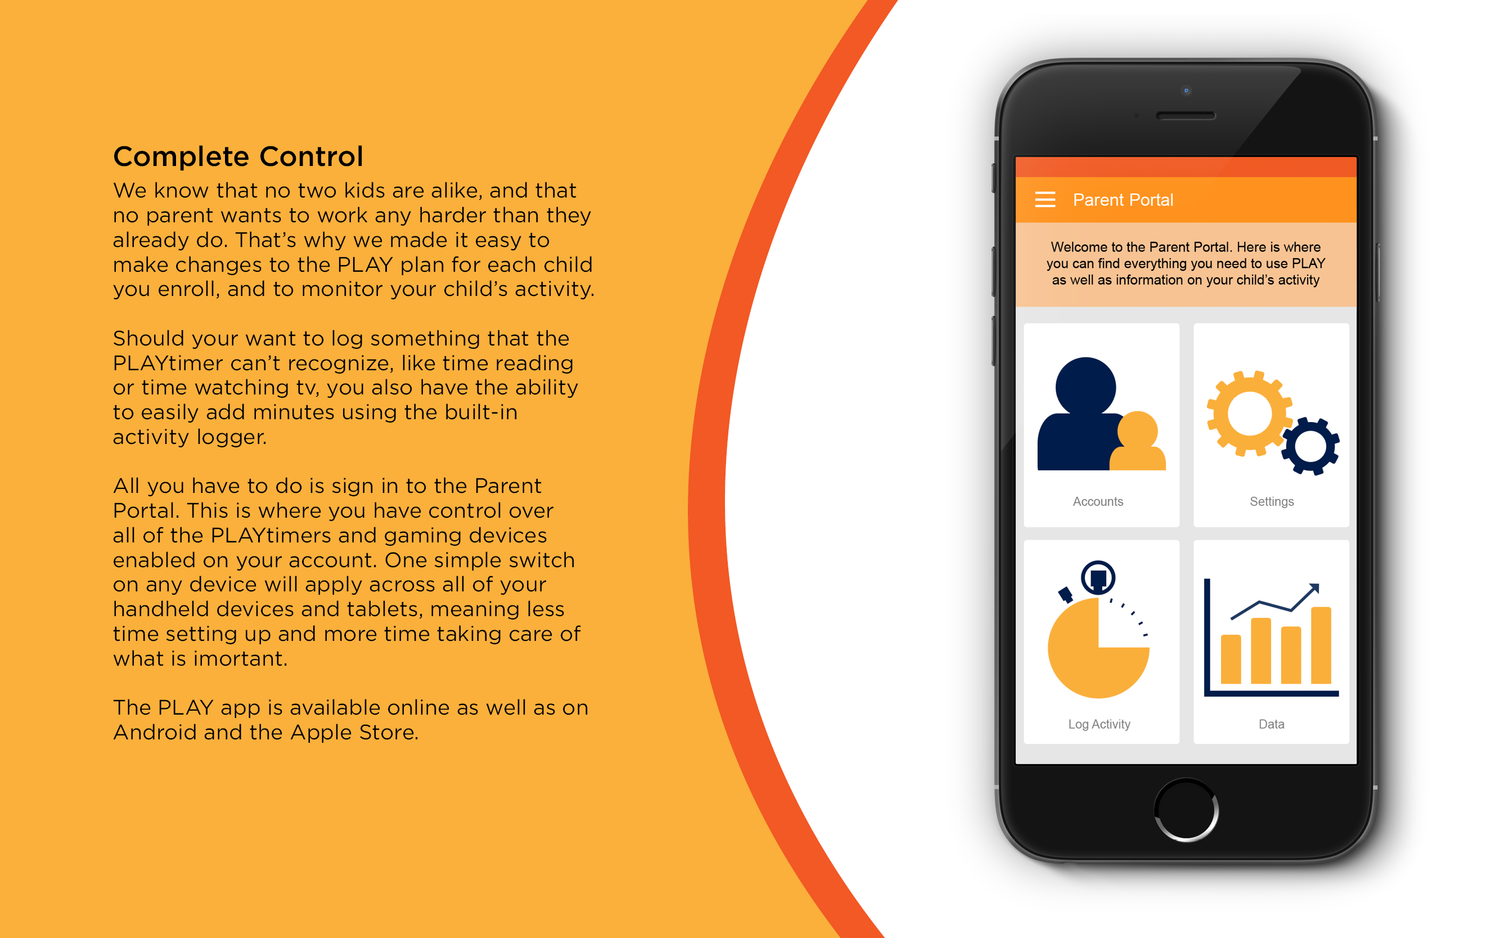
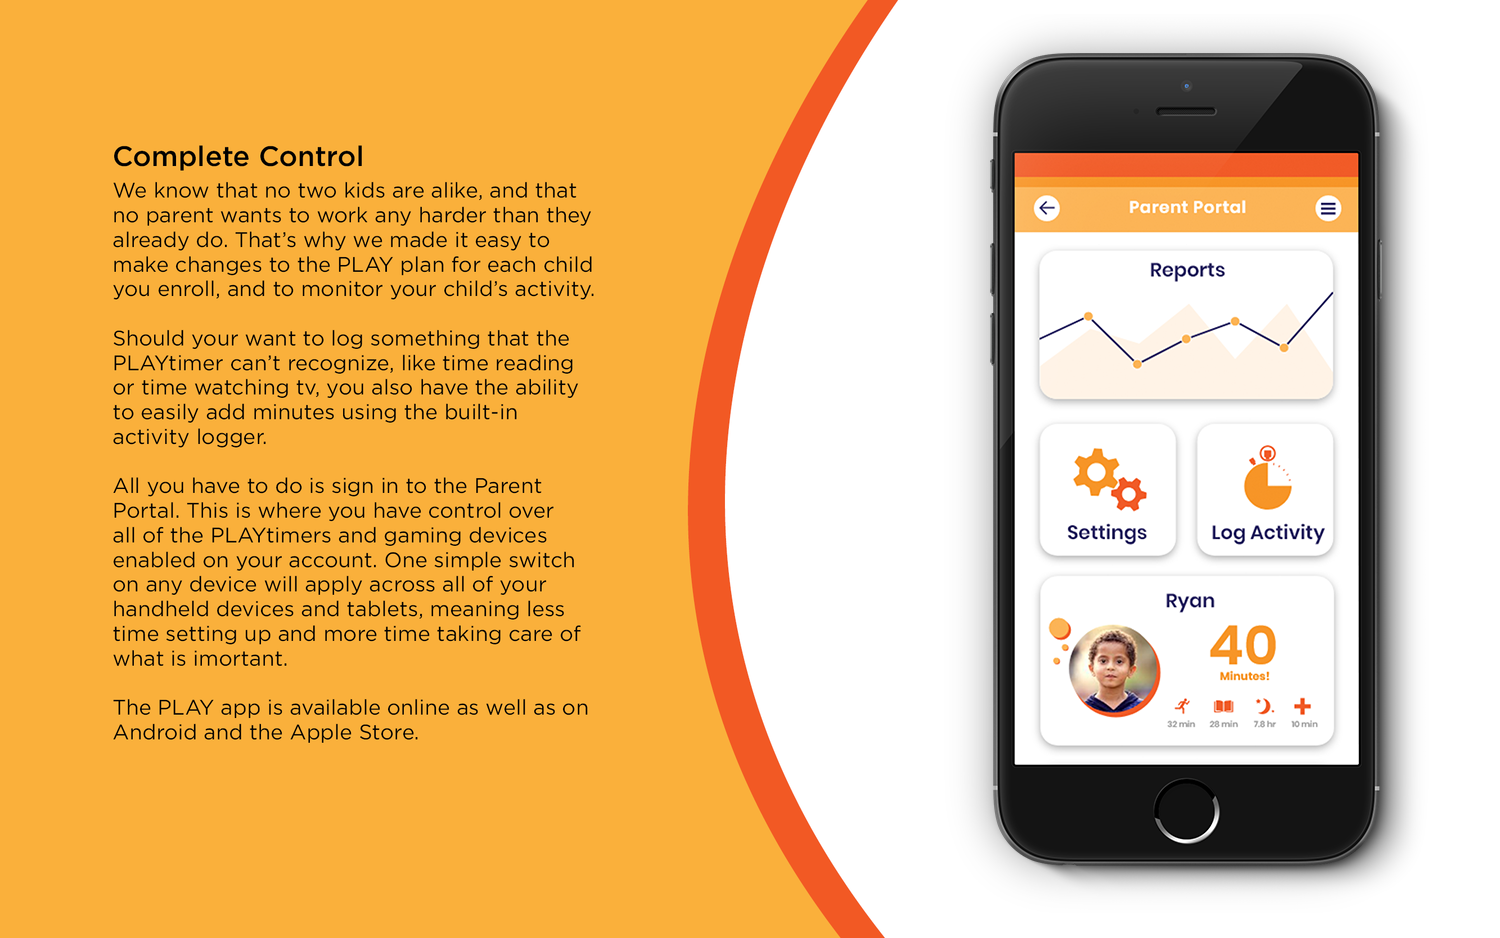
Added sitemap and updated screenshot

Changed region(s): [[0.644, 0.0309, 0.92, 0.8966], [0.6747, 0.8657, 0.8893, 0.9275]]

diff --git a/play.html b/play.html
@@ -14,6 +14,20 @@
     <script src="https://cdnjs.cloudflare.com/ajax/libs/jquery/3.3.1/jquery.min.js"></script>
     <script src="js/homepage.js"></script>
     <script src="js/project_page.js"></script>
+    <script src="js/lightbox.js"></script>
+
+    <!-- 
+        PhotoSwipe Files
+
+        For more info on PhotoSwipe, visit photoswipe.com
+    -->
+
+    <link rel="stylesheet" href="photoswipe/photoswipe.css">
+    <link rel="stylesheet" href="photoswipe/default-skin/default-skin.css">
+    <script src="photoswipe/photoswipe.min.js"></script>
+    <script src="photoswipe/photoswipe-ui-default.min.js"></script>
+
+    <!-- End PhotoSwipe -->
 </head>
 
 <body>
@@ -34,31 +48,43 @@
             </div>
 
             <div class="intro_block">
-                    <div class="article_container center_h">
-    
-                        <div class="article_text intro collapsed">
-                                <h1 class="centered">INTRODUCING PLAY</h1>
-                                <div class="article_text">
-                                    <p>PLAY is a platform to help parents balance their child’s digital activity with real-world play time. As our society gets progressively more digital every day, exposing children to technology at an early age can help prepare them for using tools that they will use for the rest of their lives. In addition, the multitude of learning programs and educational resources available to today’s children is astounding. But one thing is inevitable: tech is also a toy, and children LOVE to play.
-                                    </p>
-            
-                                    <p>Play time is extremely important for childhood development, and it teaches kids valuable lessons like sportsmanship, healthy exercise habits, and social skills. Time engaging with the real world does not lose its value in a digital age, and tablets and phones are not a good substitute for face-to-face interactions.</p>
-                                    
-                                    <p>I came up with the PLAY platform to answer the following question: “How can I make sure my child is spending enough time playing in real life while still exposing them to technology?” </p>
-            
-                                    <p>The slides below are an introduction to the PLAY platform and what it can do for parents. While the product does not exist, I took the opportunity to mock up the branding, product images, and general tone of the product. Still to come is a prototype of the mobile application. Stay tuned for that at a later date!</p>
-                                
-                                </div>
-                            </p>
-                        </div>
-                        <div class="fadeout" id="intro_fade"></div>
-    
-                        <img src="Resources/down_arrow.gif" class="drop_arrow toggle_expand" id="intro_arrow" target=".intro" fade_target="#intro_fade">
-    
-                    </div>
-                </div>
+                <div class="article_container center_h">
 
-<!--
+                    <div class="article_text intro collapsed">
+                        <h1 class="centered">INTRODUCING PLAY</h1>
+                        <div class="article_text">
+                            <p>PLAY is a platform to help parents balance their child’s digital activity with real-world play
+                                time. As our society gets progressively more digital every day, exposing children to technology
+                                at an early age can help prepare them for using tools that they will use for the rest of
+                                their lives. In addition, the multitude of learning programs and educational resources available
+                                to today’s children is astounding. But one thing is inevitable: tech is also a toy, and children
+                                LOVE to play.
+                            </p>
+
+                            <p>Play time is extremely important for childhood development, and it teaches kids valuable lessons
+                                like sportsmanship, healthy exercise habits, and social skills. Time engaging with the real
+                                world does not lose its value in a digital age, and tablets and phones are not a good substitute
+                                for face-to-face interactions.</p>
+
+                            <p>I came up with the PLAY platform to answer the following question: “How can I make sure my child
+                                is spending enough time playing in real life while still exposing them to technology?” </p>
+
+                            <p>The slides below are an introduction to the PLAY platform and what it can do for parents. While
+                                the product does not exist, I took the opportunity to mock up the branding, product images,
+                                and general tone of the product. Still to come is a prototype of the mobile application.
+                                Stay tuned for that at a later date!</p>
+
+                        </div>
+                        </p>
+                    </div>
+                    <div class="fadeout" id="intro_fade"></div>
+
+                    <img src="Resources/down_arrow.gif" class="drop_arrow toggle_expand" id="intro_arrow" target=".intro" fade_target="#intro_fade">
+
+                </div>
+            </div>
+
+            <!--
             <div class="article_container center_h">
                 <div class="article ">
                     <h1 class="centered">INTRODUCING PLAY</h1>
@@ -94,3 +120,91 @@
             <section class="module no_padding">
                 <img src="Projects//PLAY/download (5).png" alt="" class="deck">
             </section>
+
+            <section class="module" id="user_flow">
+                <div class="limit_width" id="flow_box">
+                    <img src="Projects//PLAY/play_app/PLAY Sitemap.svg" alt="" class="lightbox flow" lightbox_target=".flow" w="3840" h="2160">
+                </div>
+            </section>
+
+            <section class="module" id="prototype">
+                <iframe width="375" height="667" src="https://xd.adobe.com/embed/f83283d7-8253-418d-4f38-3ec7fb33b55f-8e03/" frameborder="0" allowfullscreen></iframe>
+            </section>
+
+
+
+
+
+
+            <!-- Photoswipe Elements-->
+
+            <!-- Root element of PhotoSwipe. Must have class pswp. -->
+            <div class="pswp" tabindex="-1" role="dialog" aria-hidden="true">
+
+                    <!-- Background of PhotoSwipe. 
+                 It's a separate element as animating opacity is faster than rgba(). -->
+                    <div class="pswp__bg"></div>
+    
+                    <!-- Slides wrapper with overflow:hidden. -->
+                    <div class="pswp__scroll-wrap">
+    
+                        <!-- Container that holds slides. 
+                    PhotoSwipe keeps only 3 of them in the DOM to save memory.
+                    Don't modify these 3 pswp__item elements, data is added later on. -->
+                        <div class="pswp__container">
+                            <div class="pswp__item"></div>
+                            <div class="pswp__item"></div>
+                            <div class="pswp__item"></div>
+                        </div>
+    
+                        <!-- Default (PhotoSwipeUI_Default) interface on top of sliding area. Can be changed. -->
+                        <div class="pswp__ui pswp__ui--hidden">
+    
+                            <div class="pswp__top-bar">
+    
+                                <!--  Controls are self-explanatory. Order can be changed. -->
+    
+                                <div class="pswp__counter"></div>
+    
+                                <button class="pswp__button pswp__button--close" title="Close (Esc)"></button>
+    
+                                <button class="pswp__button pswp__button--share" title="Share"></button>
+    
+                                <button class="pswp__button pswp__button--fs" title="Toggle fullscreen"></button>
+    
+                                <button class="pswp__button pswp__button--zoom" title="Zoom in/out"></button>
+    
+                                <!-- Preloader demo http://codepen.io/dimsemenov/pen/yyBWoR -->
+                                <!-- element will get class pswp__preloader--active when preloader is running -->
+                                <div class="pswp__preloader">
+                                    <div class="pswp__preloader__icn">
+                                        <div class="pswp__preloader__cut">
+                                            <div class="pswp__preloader__donut"></div>
+                                        </div>
+                                    </div>
+                                </div>
+                            </div>
+    
+                            <div class="pswp__share-modal pswp__share-modal--hidden pswp__single-tap">
+                                <div class="pswp__share-tooltip"></div>
+                            </div>
+    
+                            <button class="pswp__button pswp__button--arrow--left" title="Previous (arrow left)">
+                            </button>
+    
+                            <button class="pswp__button pswp__button--arrow--right" title="Next (arrow right)">
+                            </button>
+    
+                            <div class="pswp__caption">
+                                <div class="pswp__caption__center"></div>
+                            </div>
+    
+                        </div>
+    
+                    </div>
+    
+                </div>
+    
+                <!-- End Photoswipe Elements-->
+
+            </body>

diff --git a/css/about.css b/css/about.css
@@ -1,37 +1,42 @@
 
 
 .pgcontent{
-    background-color: black;
+    background-color: rgb(24, 18, 37);
     color: white;
 }
 
 .pgcontent p a{
-    color: rgb(223, 144, 255);
+    color: rgb(223, 111, 37);
 }
 
 
 .splash{
-    background-image: url("../Resources/Desert-01.png"); 
-    background-attachment: local;
-    background-position: 50%;
+    background-image: url("../Resources/Rocket.jpg"); 
+    background-attachment: fixed;
+    background-position: 50% 00px;
 }
 
 .splash h1{
     font-weight: 900;
     letter-spacing: 3px;
     font-size: 4em;
-    text-decoration: underline;
+   
+}
+
+.splash_overlay{
+    background: linear-gradient( rgba(255, 0, 0, 0.233), rgba(24, 1, 46, 0.507) );
 }
 
 .button{ 
-    margin: 60px 20px 60px 0px;
+    margin: 20px 20px 0px 0px;
     border: 1px solid white;
     border-radius: 0px;
-    max-width: 150px;
+    width: 100px;
     padding: 15px 30px;
     transition: all .5s;
     background-color: rgba(255, 255, 255, .7);
     cursor: pointer;
+    display: inline-block;
   }
   
   .button:hover{

diff --git a/css/play.css b/css/play.css
@@ -61,6 +61,19 @@ section{
     margin:15px 0;
 }
 
+#user_flow{
+   /* background-image: url("../Projects/PLAY/play_background-01.svg");
+    background-size: cover;*/
+    background-color: #ffb554;
+    padding: 40px 20px;
+}
+
+#flow_box{
+    background-color: #f25924;
+    padding: 20px;
+    border-radius: 10px;
+}
+
 
 
 /*comment*/
